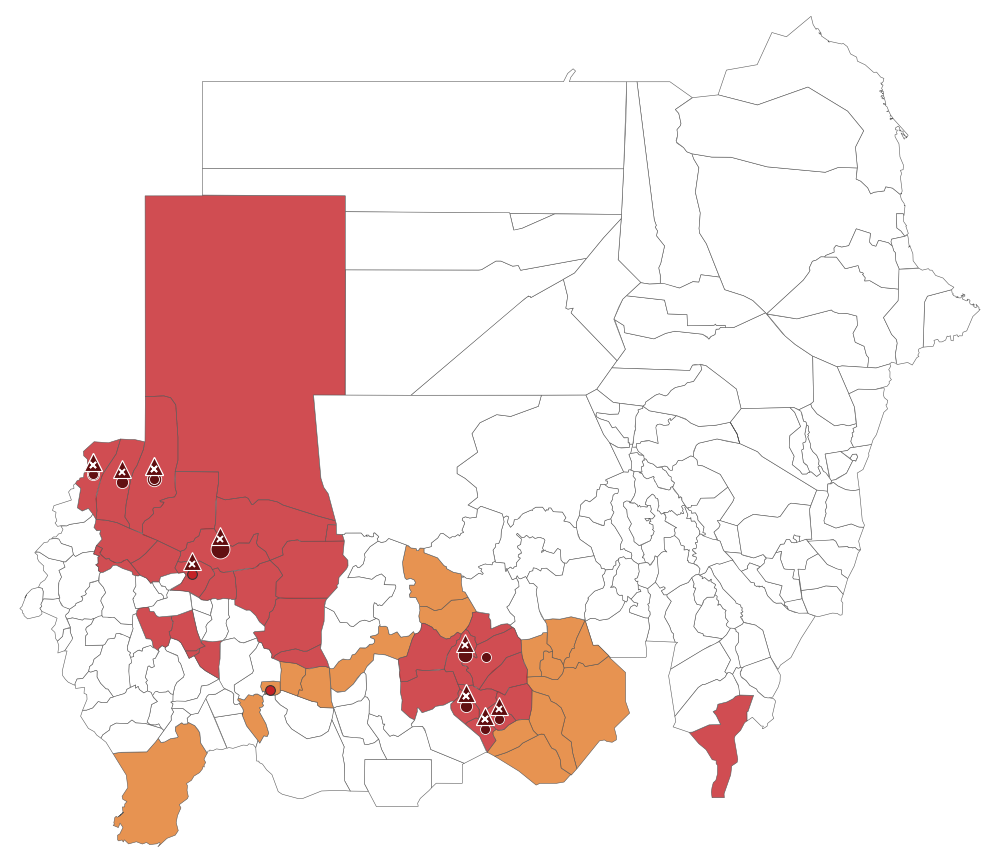
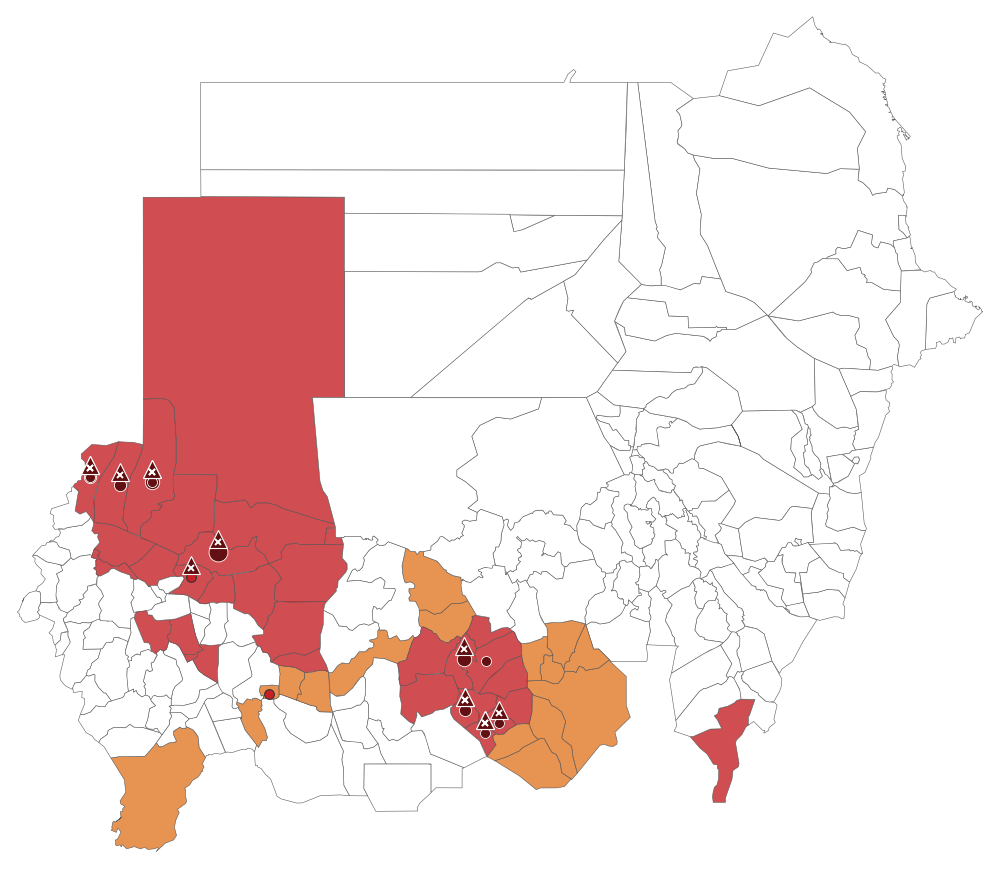
food insecurity

diff --git a/earth/food_insecurity_sdn.html b/earth/food_insecurity_sdn.html
@@ -35,38 +35,68 @@ li{margin:3px 0}
 vertical-align:-3px;margin-right:8px;border-radius:2px}
 .src{color:var(--dim);font-size:13px;border-top:1px solid var(--line);
 margin-top:24px;padding-top:10px}
+.step{border-top:1px solid var(--line);margin-top:26px;padding-top:4px}
+.step h2{font-size:19px;margin:14px 0 10px}
+.step p{margin:0 0 10px}
+.n{color:var(--dim);font-weight:400;margin-right:6px}
+.hint{color:var(--dim);font-size:14px;margin:0 0 6px}
 </style>
 </head>
 <body>
 <main>
 <a class="back" href="/">&larr; Paloma's Orrery</a>
 <h1>Sudan &mdash; Acute Food Insecurity</h1>
-<p class="sub">IPC&#39;s analysis of Sudan, three periods, on Google Earth</p>
-<figure><img src="food_insecurity_sdn.png" alt="Map of Sudan for Projected 2: October 2026 - January 2027: areas colored by IPC phase, white where not analyzed, camps as circles, dark red dots for Phase 5 (Catastrophe) and IPC&#x27;s Risk of Famine symbol."><figcaption>Projected 2: October 2026 - January 2027, drawn from IPC's data.</figcaption></figure>
-<a class="go" href="https://earth.google.com/earth/d/1tvCdwVYhIwNetF-phuT4eTMztfOOIuaG?usp=sharing" target="_blank" rel="noopener">Open the map in Google Earth</a>
-<p class="note">It opens in a new tab, on Projected 2: October 2026 - January 2027. Switch a period's folder on to see it.</p>
-<h2>Three periods</h2>
-<ul>
-<li>Current: February - May 2026</li>
-<li>Projected 1: June - September 2026</li>
-<li>Projected 2: October 2026 - January 2027</li>
-</ul>
-<p class="note">IPC&#x27;s projection covers 56 areas out of 195 units of analysis of Sudan, equivalent to nearly 8.3 million people out of the total population of Sudan (47.5 million). Its numbers describe those 56 areas, not all of Sudan.</p>
-<p class="note">IPC: &quot;Caution is therefore advised when comparing figures across analysis periods, as geographic coverage differs significantly.&quot;</p>
-<h2>What the colors mean</h2>
-<ul class="key">
-<li><span class="sw" style="background:#D0E7C7"></span>Phase 1 Minimal: light green</li>
-<li><span class="sw" style="background:#F8E303"></span>Phase 2 Stressed: yellow</li>
-<li><span class="sw" style="background:#E27826"></span>Phase 3 Crisis: orange</li>
-<li><span class="sw" style="background:#C52127"></span>Phase 4 Emergency: red</li>
-<li><span class="sw" style="background:#621012"></span>Phase 5 Famine / Catastrophe: dark red</li>
-<li><span class="sw" style="background:#FFFFFF"></span>Not analyzed: white</li>
-<li><svg width="18" height="16" viewBox="0 0 18 16" style="vertical-align:-3px;margin-right:6px" aria-hidden="true"><polygon points="9,1 17,15 1,15" fill="rgb(96,13,15)" stroke="#fff" stroke-width="1"/><path d="M6.5,8.5 L11.5,13.5 M11.5,8.5 L6.5,13.5" stroke="#fff" stroke-width="1.8"/></svg>Risk of Famine (symbol after IPC): a small dark red triangle with a white X, on each area IPC lists at Risk of Famine (reasonable worst-case scenario)</li>
-<li>Small circles: IDP settlements (camps for internally displaced people), in their phase color</li>
-<li>Dark red dots: people in Phase 5 (Catastrophe); a larger dot means more people</li>
-</ul>
-<p>The mapped phase is the highest severity affecting at least 20% of an area&#x27;s population. A smaller Catastrophe population can sit under a Phase 4 color -- the full breakdown in each pop-up shows it.</p>
-<h2>How this map relates to IPC&#39;s</h2>
+<p class="sub">IPC&#39;s analysis of Sudan, February 2026 - January 2027, in seven steps.</p>
+<p class="hint">Scroll down, one step at a time.</p>
+<section class="step">
+<h2><span class="n">1.</span>What this map shows</h2>
+<figure><img src="food_insecurity_sdn_key.png" alt="IPC&#x27;s key: Phase 1 Minimal, light green; Phase 2 Stressed, yellow; Phase 3 Crisis, orange; Phase 4 Emergency, red; Phase 5 Famine / Catastrophe, dark red; and white for an area not analyzed." loading="lazy"></figure>
+<p>These maps show IPC&#x27;s analysis of acute food insecurity in Sudan, area by area, for three periods from February 2026 to January 2027.</p>
+<p>IPC places each area in one of five phases, each with its color: Phase 1 Minimal, light green; Phase 2 Stressed, yellow; Phase 3 Crisis, orange; Phase 4 Emergency, red; Phase 5 Famine, dark red. White is an area IPC did not analyze for that period.</p>
+<p>IPC&#x27;s key for the map: &quot;mapped Phase represents highest severity affecting at least 20% of the population.&quot; So an area&#x27;s color can hide people in a worse phase. Step 5 shows where.</p>
+<p>Phase 5 has two names in IPC&#x27;s report: an area is classified Phase 5 (Famine), and people are classified Phase 5 (Catastrophe).</p>
+</section>
+<section class="step">
+<h2><span class="n">2.</span>February - May 2026</h2>
+<figure><img src="food_insecurity_sdn_current.png" alt="Map of Sudan, February - May 2026: every area colored by its IPC phase, and small circles for the camps." loading="lazy"></figure>
+<p>IPC names this period Current. Its analysis was conducted in March - April 2026 and covered all of Sudan, 47.5 million people.</p>
+<p>Nearly 19.5 million people were in Phase 3 or above (Crisis or worse), including over 5 million in Phase 4 (Emergency).</p>
+<p>No area was classified Phase 5 (Famine), but nearly 135,000 people were in Phase 5 (Catastrophe).</p>
+<p>The small circles are camps for internally displaced people (IDP settlements), in their phase color.</p>
+</section>
+<section class="step">
+<h2><span class="n">3.</span>June - September 2026, the lean season</h2>
+<figure><img src="food_insecurity_sdn_lean.png" alt="Map of Sudan, June - September 2026: the 56 areas IPC projected, colored by phase; every other area white." loading="lazy"></figure>
+<p>IPC names this period Projected 1. It covers 56 of Sudan&#x27;s 195 areas, nearly 8.3 million of its 47.5 million people. The other areas are white. IPC: &quot;A full nationwide projection analysis was not possible due to data gaps.&quot;</p>
+<p>In those 56 areas, IPC projected 5.6 million people, 67 percent of the people analyzed, in Phase 3 or above: around 2.2 million in Phase 4 (Emergency), a further 3.1 million in Phase 3 (Crisis), and nearly 200,000 in Phase 5 (Catastrophe).</p>
+<p>Comparing the same 56 areas with February - May, IPC notes the share in Phase 3 or above &quot;rising from 60 percent to 67 percent.&quot;</p>
+<p>IPC: &quot;Caution is therefore advised when comparing figures across analysis periods, as geographic coverage differs significantly.&quot;</p>
+</section>
+<section class="step">
+<h2><span class="n">4.</span>October 2026 - January 2027, the harvest season</h2>
+<figure><img src="food_insecurity_sdn_harvest.png" alt="Map of Sudan, October 2026 - January 2027: the 56 areas IPC projected, colored by phase; every other area white; a dashed box around Darfur and Kordofan." loading="lazy"></figure>
+<p>This is the period under way now.</p>
+<p>IPC names this period Projected 2. In the same 56 areas, IPC expects an estimated 4.9 million people, 59 percent of the people analyzed, to remain in Phase 3 or above: over 71,000 in Phase 5 (Catastrophe), 1.7 million in Phase 4 (Emergency) and 3 million in Phase 3 (Crisis).</p>
+<p>IPC: from June - September, this share &quot;is expected to decline to 59 percent.&quot;</p>
+<p>The dashed box marks Darfur and Kordofan, shown closer in the next step.</p>
+</section>
+<section class="step">
+<h2><span class="n">5.</span>Hidden under the colors</h2>
+<figure><img src="food_insecurity_sdn_hidden.png" alt="Close-up of Darfur and Kordofan with state names, October 2026 - January 2027: areas in their IPC phase colors, and dark red dots, larger for more people, where IPC counts people in Phase 5 (Catastrophe)." loading="lazy"></figure>
+<p>Closer in: the states of Darfur and Kordofan, October 2026 - January 2027.</p>
+<p>An area takes the color of the highest phase affecting at least 20% of its people. Where fewer people than that are in Phase 5 (Catastrophe), the color does not show them.</p>
+<p>Each dark red dot marks the people IPC counts in Phase 5 (Catastrophe) in one area; a larger dot means more people.</p>
+<p>Across the 56 areas, IPC counts &quot;over 71,000 people in Catastrophe (IPC Phase 5)&quot; in this period.</p>
+</section>
+<section class="step">
+<h2><span class="n">6.</span>Risk of Famine</h2>
+<figure><img src="food_insecurity_sdn_famine.png" alt="Close-up of Darfur and Kordofan, October 2026 - January 2027: IPC&#x27;s Risk of Famine symbol, a small dark red triangle with a white X, on each area IPC lists." loading="lazy"></figure>
+<p>IPC identifies a risk of Famine in 13 areas and IDP settlements in this period. Each carries IPC&#x27;s symbol, a small dark red triangle with a white X.</p>
+<p>IPC identifies them &quot;under a reasonable worst-case scenario characterised by intensified conflict and further restrictions on humanitarian access and the movement of goods and people.&quot;</p>
+<p>A risk of Famine is not a classification of Famine: IPC classifies no area Phase 5 (Famine) in this period.</p>
+</section>
+<section class="step">
+<h2><span class="n">7.</span>About this map</h2>
 <p>From IPC: the data, the phase colors, the Risk of Famine symbol, the figures and the words.</p>
 <p>This map adds:</p>
 <ul>
@@ -81,6 +111,9 @@ margin-top:24px;padding-top:10px}
 <li>Acute malnutrition, which IPC classifies in its own separate analysis.</li>
 </ul>
 <p>IPC&#x27;s own map is the authority: <a href="https://www.ipcinfo.org/ipc-country-analysis/details-map/en/c/1163315/?iso3=SDN" target="_blank" rel="noopener">IPC&#39;s map of Sudan</a>.</p>
+<a class="go" href="https://earth.google.com/earth/d/1tvCdwVYhIwNetF-phuT4eTMztfOOIuaG?usp=sharing" target="_blank" rel="noopener">Explore the map in Google Earth</a>
+<p class="note">It opens in a new tab, on October 2026 - January 2027. In a web browser, the list on the left switches periods.</p>
+</section>
 <div class="src"><div>Source: IPC, IPC Mapping Tool</div><div>IPC Global Initiative. 2026. Sudan: IPC Acute Food Insecurity Analysis, February 2026 - January 2027 (Special Report). Published 3 June 2026.</div><div>Analysis: Acute Food Insecurity Analysis &#8211; SD February 2026</div><div>Data retrieved: 2026-11-13</div><div>This layer documents where IPC records strain and attributes drivers to IPC. It draws no causal arrow of its own.</div></div>
 </main>
 </body>

diff --git a/MODULE_INDEX.md b/MODULE_INDEX.md
@@ -1,6 +1,6 @@
 # Paloma's Orrery - Module Index
 
-**Generated:** November 12, 2026 by `module_atlas.py`  
+**Generated:** November 14, 2026 by `module_atlas.py`  
 **Repository:** Paloma's Orrery - Solar System Visualization Suite  
 **Philosophy:** Data Preservation is Climate Action
 

diff --git a/MODULE_ATLAS.md b/MODULE_ATLAS.md
@@ -1,6 +1,6 @@
 # Paloma's Orrery -- Module Atlas
 
-Generated: November 12, 2026
+Generated: November 14, 2026
 Modules: 61 | Functions: 554 | Lines: 33,001
 
 ## Classification Coverage
